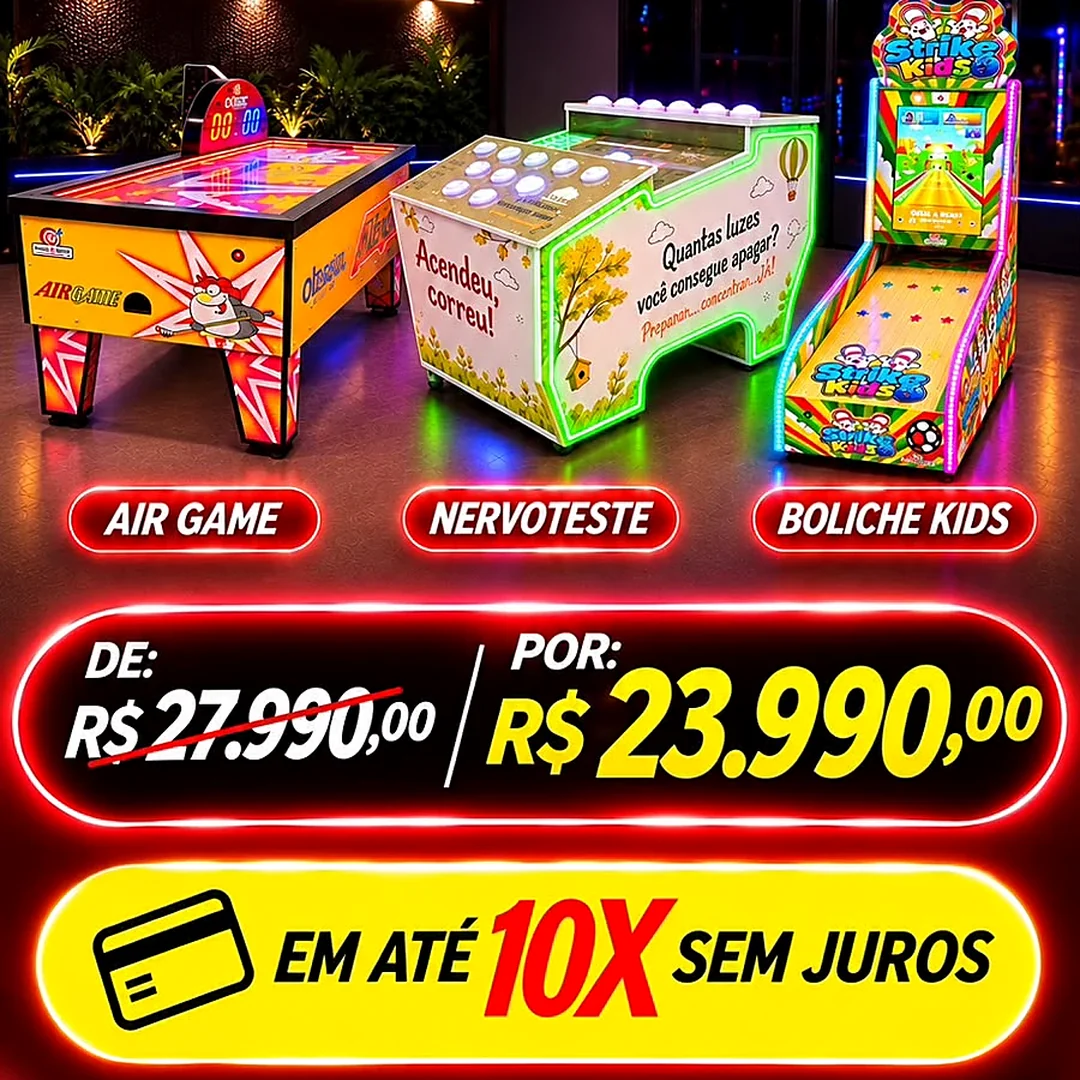
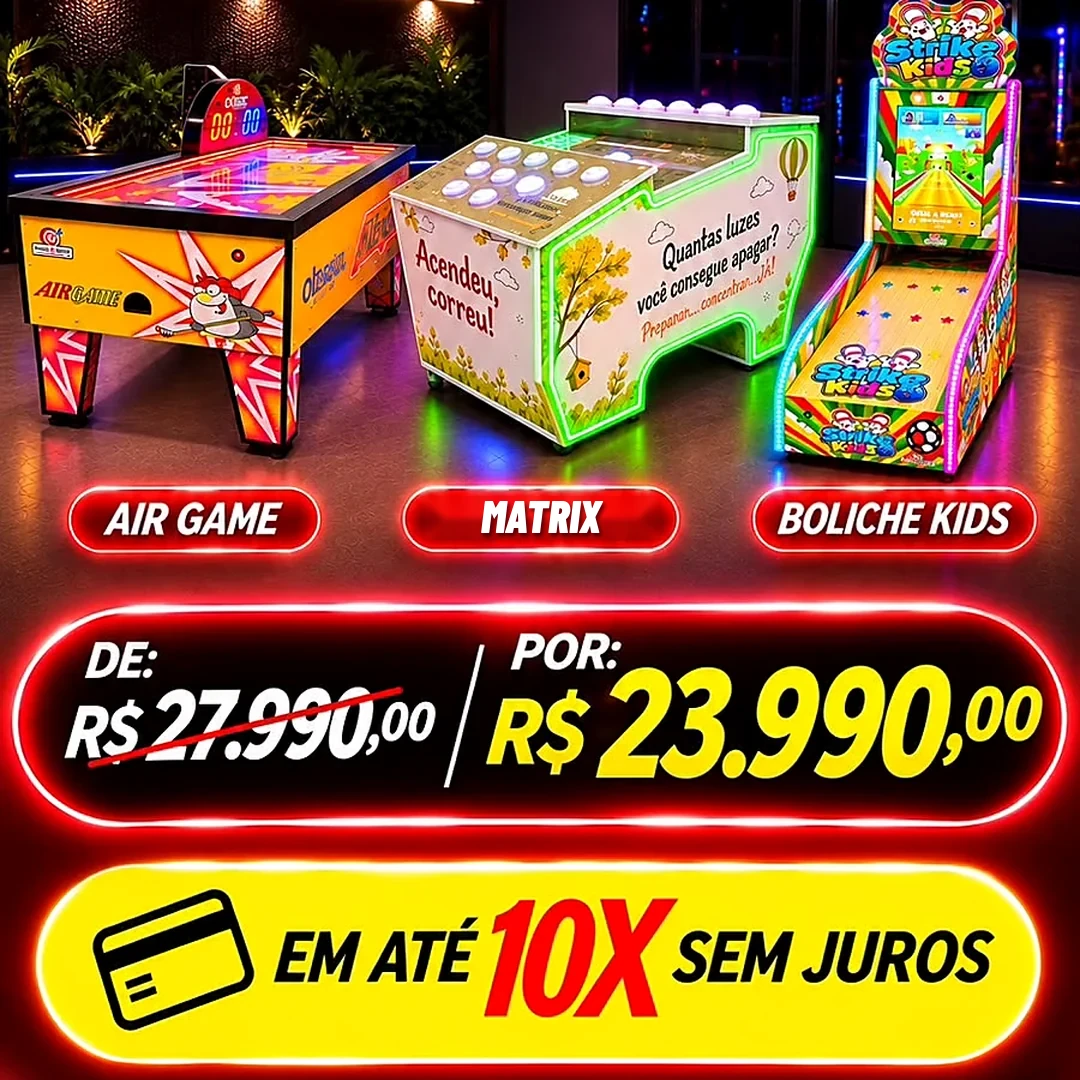
Kit Sucesso com o Matrix (não o Nervo Teste) e a fileira do destaque sem fim
A máquina das luzes da arte do Kit Sucesso é o Matrix: o rótulo da arte e do
card foi refeito, a promoção ganhou o nome certo e o Matrix ligado; a que já
existe é acertada (migração 0175, as fotos novas sobem só no Render).
As miniaturas do quadro do topo passam sem fim (cópias antes e depois, a
rolagem sempre no meio) e ganham as setas ‹ ›.

Claude-Session: https://claude.ai/code/session_01BdLQMKFKjxTHdFwtnUJngg

Changed region(s): [[0.3972, 0.4583, 0.6111, 0.5194]]

diff --git a/core/static/site/paginas/home-quadro.js b/core/static/site/paginas/home-quadro.js
@@ -76,29 +76,125 @@
     if (seguinte) seguinte.loading = "eager";
 
     minis.forEach(function (botao, i) {
-      botao.classList.toggle("ativo", i === atual);
       botao.setAttribute("aria-pressed", i === atual ? "true" : "false");
     });
-    mostrarMiniatura(minis[atual]);
+    todas().forEach(function (botao) {
+      botao.classList.toggle("ativo", Number(botao.dataset.ir) === atual);
+    });
+    mostrarMiniatura(atual);
     correr();
     vitrine.dispatchEvent(new CustomEvent("vitrine:troca", { detail: { indice: atual, slide: novo } }));
   }
 
-  // No celular a fileira de miniaturas rola de lado: a do brinquedo da vez
-  // fica à vista. Só a fileira rola (scrollTo nela), nunca a página -- o
-  // scrollIntoView puxaria a página de volta para o quadro no meio da
-  // leitura lá embaixo.
-  function mostrarMiniatura(botao) {
-    var fileira = botao && botao.parentElement;
+  /* A FILEIRA SEM FIM. O cliente: "ajeite melhor para poder ir passando e
+     não ter o fim". Quando as miniaturas não cabem, a fileira ganha uma cópia
+     delas antes e outra depois (só para o olho: `aria-hidden`, fora do Tab),
+     e a rolagem fica sempre na do meio -- passou do fim, volta em silêncio
+     para o mesmo ponto da do meio, que é idêntico. Assim dá para ir passando
+     com o dedo (ou com as setas ‹ ›) para sempre, nos dois sentidos, e a
+     troca automática do último para o primeiro segue PARA A FRENTE. Só a
+     fileira rola (scrollTo nela), nunca a página -- o scrollIntoView puxaria
+     a página de volta para o quadro no meio da leitura lá embaixo. */
+  var fileira = minis.length ? minis[0].parentElement : null;
+  var semFim = false;
+  var copias = [];
+
+  function todas() {
+    return fileira ? Array.prototype.slice.call(fileira.querySelectorAll("[data-ir]")) : minis;
+  }
+
+  // a largura de uma volta inteira (do 1º original ao 1º da cópia de depois)
+  function larguraDaVolta() {
+    var depois = copias[minis.length];
+    return depois ? depois.offsetLeft - minis[0].offsetLeft : 0;
+  }
+
+  function prepararSemFim() {
+    if (!fileira || minis.length < 2) return;
+    fileira.classList.add("ls-vitrine-miniaturas--rola");
+    if (fileira.scrollWidth <= fileira.clientWidth + 1) return;
+    semFim = true;
+    fileira.classList.add("ls-vitrine-miniaturas--sem-fim");
+    var copiar = function (botao) {
+      var copia = botao.cloneNode(true);
+      copia.setAttribute("aria-hidden", "true");
+      copia.removeAttribute("aria-pressed");
+      copia.removeAttribute("aria-label");
+      copia.tabIndex = -1;
+      copia.classList.add("ls-vitrine-mini--copia");
+      return copia;
+    };
+    var antes = minis.map(copiar);
+    var depois = minis.map(copiar);
+    antes.forEach(function (copia) { fileira.insertBefore(copia, minis[0]); });
+    depois.forEach(function (copia) { fileira.appendChild(copia); });
+    copias = antes.concat(depois);
+    // começa no meio: a 1ª miniatura original no centro
+    var botao = minis[atual];
+    fileira.scrollLeft = botao.offsetLeft - (fileira.clientWidth - botao.offsetWidth) / 2;
+    var espera = 0;
+    var recentrar = function () {
+      espera = 0;
+      var volta = larguraDaVolta();
+      if (!volta) return;
+      var meio = fileira.scrollLeft + fileira.clientWidth / 2;
+      var ini = minis[0].offsetLeft;
+      if (meio < ini) fileira.scrollLeft += volta;
+      else if (meio > ini + volta) fileira.scrollLeft -= volta;
+    };
+    fileira.addEventListener("scroll", function () {
+      window.clearTimeout(espera);
+      espera = window.setTimeout(recentrar, 140);
+    }, { passive: true });
+  }
+
+  // a miniatura da vez no meio da fileira: entre as cópias dela, a mais perto
+  // de onde a fileira está (do último para o primeiro, anda para a frente)
+  function mostrarMiniatura(indice) {
     if (!fileira || fileira.scrollWidth <= fileira.clientWidth + 1) return;
-    var esquerda = botao.offsetLeft - (fileira.clientWidth - botao.offsetWidth) / 2;
-    fileira.scrollTo({ left: Math.max(0, esquerda), behavior: reduzido ? "auto" : "smooth" });
+    var meio = fileira.scrollLeft + fileira.clientWidth / 2;
+    var melhor = null;
+    var distancia = Infinity;
+    todas().forEach(function (botao) {
+      if (Number(botao.dataset.ir) !== indice) return;
+      var d = Math.abs(botao.offsetLeft + botao.offsetWidth / 2 - meio);
+      if (d < distancia) { distancia = d; melhor = botao; }
+    });
+    if (!melhor) return;
+    var esquerda = melhor.offsetLeft - (fileira.clientWidth - melhor.offsetWidth) / 2;
+    fileira.scrollTo({ left: semFim ? esquerda : Math.max(0, esquerda), behavior: reduzido ? "auto" : "smooth" });
+  }
+
+  // as setas ‹ › dos dois lados da fileira (no PC não há dedo para arrastar)
+  function prepararSetas() {
+    if (!fileira || minis.length < 2) return;
+    var trilho = document.createElement("div");
+    trilho.className = "ls-vitrine-trilho";
+    fileira.parentElement.insertBefore(trilho, fileira);
+    var seta = function (lado, rotulo, passo) {
+      var botao = document.createElement("button");
+      botao.type = "button";
+      botao.className = "ls-vitrine-seta ls-vitrine-seta--" + lado;
+      botao.setAttribute("aria-label", rotulo);
+      botao.innerHTML = '<i class="fa-solid ' + (lado === "antes" ? "fa-chevron-left" : "fa-chevron-right") + '" aria-hidden="true"></i>';
+      botao.addEventListener("click", function () { mostrar(atual + passo); });
+      return botao;
+    };
+    trilho.appendChild(seta("antes", "Brinquedo anterior", -1));
+    trilho.appendChild(fileira);
+    trilho.appendChild(seta("depois", "Próximo brinquedo", 1));
   }
 
   if (slides.length > 1) {
-    minis.forEach(function (botao) {
-      botao.addEventListener("click", function () { mostrar(Number(botao.dataset.ir)); });
-    });
+    prepararSetas();
+    prepararSemFim();
+    // um ouvinte só, na fileira: vale para as miniaturas e para as cópias delas
+    if (fileira) {
+      fileira.addEventListener("click", function (e) {
+        var botao = e.target.closest("[data-ir]");
+        if (botao && fileira.contains(botao)) mostrar(Number(botao.dataset.ir));
+      });
+    }
 
     vitrine.addEventListener("mouseenter", function () { parar(true); });
     vitrine.addEventListener("mouseleave", function () { parar(false); });

diff --git a/core/static/site/paginas/home-quadro.css b/core/static/site/paginas/home-quadro.css
@@ -568,6 +568,69 @@
 .ls-vitrine-mini:first-child { margin-left: auto; }
 .ls-vitrine-mini:last-child { margin-right: auto; }
 
+/* A FILEIRA SEM FIM (home-quadro.js): as setas ‹ › dos lados e a fileira no
+   meio; ela rola de lado em qualquer tela (sem barra), com as pontas
+   esmaecendo, e, quando não cabe, as cópias antes e depois fazem a volta
+   não ter fim. */
+.ls-vitrine-trilho {
+    display: flex;
+    align-items: center;
+    gap: 6px;
+    width: min(100%, 620px);
+}
+
+.ls-vitrine-trilho .ls-vitrine-miniaturas {
+    flex: 1 1 auto;
+    min-width: 0;
+    width: auto;
+}
+
+.ls-vitrine-miniaturas--rola {
+    overflow-x: auto;
+    overscroll-behavior-x: contain;
+    scrollbar-width: none;
+    scroll-snap-type: x proximity;
+    padding-top: 7px;
+    padding-bottom: 5px;
+}
+
+.ls-vitrine-miniaturas--rola::-webkit-scrollbar { display: none; }
+.ls-vitrine-miniaturas--rola .ls-vitrine-mini { scroll-snap-align: center; }
+
+.ls-vitrine-miniaturas--sem-fim {
+    -webkit-mask-image: linear-gradient(90deg, transparent 0, #000 26px, #000 calc(100% - 26px), transparent 100%);
+    mask-image: linear-gradient(90deg, transparent 0, #000 26px, #000 calc(100% - 26px), transparent 100%);
+}
+
+.ls-vitrine-miniaturas--sem-fim .ls-vitrine-mini:first-child,
+.ls-vitrine-miniaturas--sem-fim .ls-vitrine-mini:last-child { margin: 0; }
+
+.ls-vitrine-seta {
+    flex: none;
+    display: grid;
+    place-items: center;
+    width: 34px;
+    height: 34px;
+    padding: 0;
+    border: 1px solid rgba(127, 220, 255, .22);
+    border-radius: 50%;
+    background: rgba(10, 26, 56, .78);
+    color: #cfe9ff;
+    font-size: .8rem;
+    cursor: pointer;
+    transition: background .2s ease, border-color .2s ease, transform .2s ease, color .2s ease;
+}
+
+.ls-vitrine-seta:hover {
+    border-color: #3fd0ff;
+    background: rgba(18, 55, 107, .95);
+    color: #fff;
+    transform: scale(1.06);
+}
+
+.ls-vitrine-seta:active { transform: scale(.94); }
+.ls-vitrine-seta:focus-visible { outline: 2px solid #3fd0ff; outline-offset: 2px; }
+
 .ls-vitrine-mini {
     position: relative;
     flex: none;
@@ -814,6 +877,8 @@
     }
     .ls-vitrine-miniaturas::-webkit-scrollbar { display: none; }
     .ls-vitrine-mini { width: 40px; height: 40px; border-radius: 11px; scroll-snap-align: center; }
+    .ls-vitrine-seta { width: 30px; height: 30px; font-size: .72rem; }
+    .ls-vitrine-trilho { gap: 4px; }
     .ls-vitrine-mini img { padding: 3px; }
     .ls-vitrine-chip3d { top: 12px; left: 12px; }
     .ls-painel-numeros { grid-template-columns: repeat(2, minmax(0, 1fr)); gap: 8px; }

diff --git a/core/black_friday.py b/core/black_friday.py
@@ -179,8 +179,12 @@ PROMOCOES = [
     },
     {
         "arte": 11,
-        "descricao": "Kit Sucesso e Inovação: Air Game + Nervo Teste + Boliche Kids",
-        "brinquedos": ["Air Game Home", "Nervo Teste", "Strike Kids"],
+        # A máquina das luzes da arte é o MATRIX, não o Nervo Teste (o cliente: "arrume a
+        # nomenclatura, não é o nervo teste, é o matrix"); a arte e o card foram corrigidos
+        # e a promoção que já existe com o nome antigo é acertada (`antes`, migração 0175).
+        "descricao": "Kit Sucesso e Inovação: Air Game + Matrix + Boliche Kids",
+        "antes": ["Kit Sucesso e Inovação: Air Game + Nervo Teste + Boliche Kids"],
+        "brinquedos": ["Air Game Home", "Matrix", "Strike Kids"],
         "preco": "23990.00",
         "preco_de": "27990.00",
         "condicoes": [DEZ_X],
@@ -326,8 +330,12 @@ def cadastrar_promocao(dados, Brinquedos, Promocoes, simular=False, avisar=print
     if simular:
         avisar(f"{dados['descricao']}: seria criada/acertada ({', '.join(b.nome_brinquedo for b in brinquedos)}).")
         return None
-    promocao = Promocoes.objects.filter(descricao=dados["descricao"]).first() or Promocoes(descricao=dados["descricao"])
+    nomes = [dados["descricao"], *dados.get("antes", [])]
+    promocao = (Promocoes.objects.filter(descricao=dados["descricao"]).first()
+                or Promocoes.objects.filter(descricao__in=nomes).first()
+                or Promocoes(descricao=dados["descricao"]))
     nova = promocao.pk is None
+    promocao.descricao = dados["descricao"]  # o nome antigo (ex.: o Nervo Teste no Kit Sucesso) é acertado
     promocao.brinquedos = brinquedos[0]
     promocao.preco_promocao = Decimal(dados["preco"]) if dados.get("preco") else None
     promocao.preco_de = Decimal(dados["preco_de"]) if dados.get("preco_de") else None
@@ -364,6 +372,46 @@ def rodar(Brinquedos, CategoriasBrinquedos, ImagemBrinquedo, Promocoes, simular=
     # de trás para a frente: a primeira da lista fica com o id maior (o site mostra as mais novas antes)
     for dados in reversed(PROMOCOES):
         cadastrar_promocao(dados, Brinquedos, Promocoes, simular=simular, avisar=avisar)
+
+
+def kit_sucesso_com_matrix(apps, schema_editor, avisar=print):
+    """A migração 0175: o Kit Sucesso é Air Game + MATRIX + Boliche Kids (não o Nervo Teste).
+
+    Em todo lugar: a promoção que já existe com o nome antigo ganha o nome certo e o Matrix
+    no lugar do Nervo Teste. Só no Render (o Cloudinary só está lá): a arte e o card
+    corrigidos sobem. Sem a promoção (nunca criada) ou sem o Matrix no catálogo, nada muda.
+    """
+    from django.conf import settings
+
+    Brinquedos = apps.get_model("core", "Brinquedos")
+    Promocoes = apps.get_model("core", "Promocoes")
+    dados = next(d for d in PROMOCOES if d["arte"] == 11)
+    nomes = [dados["descricao"], *dados["antes"]]
+    promocao = Promocoes.objects.filter(descricao__in=nomes).first()
+    if promocao is None:
+        return
+    if getattr(settings, "IS_RENDER", False):
+        try:
+            cadastrar_promocao(dados, Brinquedos, Promocoes, avisar=avisar)
+        except Exception as erro:  # noqa: BLE001 -- o deploy segue
+            avisar(f"O Kit Sucesso não foi acertado agora ({erro!r}). Rode: python manage.py black_friday_2026 --forcar")
+            return
+        try:
+            from django.core.cache import cache
+
+            cache.clear()
+        except Exception:  # noqa: BLE001
+            pass
+        return
+    brinquedos = [achar(nome, Brinquedos) for nome in dados["brinquedos"]]
+    if any(b is None for b in brinquedos):
+        avisar(f"{dados['descricao']}: falta no catálogo o Matrix; a promoção fica como está.")
+        return
+    with transaction.atomic():
+        promocao.descricao = dados["descricao"]
+        promocao.brinquedos = brinquedos[0]
+        promocao.save()
+        promocao.brinquedos_extras.set(brinquedos[1:])
 
 
 def subir_no_deploy(apps, schema_editor, avisar=print):

diff --git a/core/tests_black_friday.py b/core/tests_black_friday.py
@@ -205,7 +205,7 @@ def _discos(pasta):
 
 class CadastroTests(TestCase):
     def setUp(self):
-        for nome in ("Air Game Kids", "Strike Kids", "Nervo Teste", "Boliche Virtual", "Air Game Home"):
+        for nome in ("Air Game Kids", "Strike Kids", "Nervo Teste", "Boliche Virtual", "Air Game Home", "Matrix"):
             _brinquedo(nome)
         CategoriasBrinquedos.objects.create(nome_categoria="Competitivos", imagem_categoria="categorias/c.jpg")
         self.pasta = tempfile.TemporaryDirectory()
@@ -266,7 +266,54 @@ class CadastroTests(TestCase):
         avisos = self.rodar()
         self.assertFalse(Promocoes.objects.filter(descricao="Black Friday: Nervo Teste").exists())
         self.assertTrue(any("Nervo Teste" in a and "falta" in a for a in avisos))
-        self.assertEqual(Promocoes.objects.count(), 9)  # a do Nervo Teste e o Kit Sucesso esperam
+        self.assertEqual(Promocoes.objects.count(), 10)  # só a do Nervo Teste espera (o kit é com o Matrix)
+
+    def test_kit_sucesso_e_com_o_matrix(self):
+        """"não é o nervo teste, é o matrix": a promoção antiga é acertada, sem duplicar."""
+        antiga = Promocoes.objects.create(
+            descricao="Kit Sucesso e Inovação: Air Game + Nervo Teste + Boliche Kids",
+            brinquedos=Brinquedos.objects.get(nome_brinquedo="Air Game Home"), preco_promocao=Decimal("23990.00"),
+        )
+        antiga.brinquedos_extras.set([Brinquedos.objects.get(nome_brinquedo="Nervo Teste"),
+                                      Brinquedos.objects.get(nome_brinquedo="Strike Kids")])
+        self.rodar()
+        kit = Promocoes.objects.get(descricao__startswith="Kit Sucesso")
+        self.assertEqual(kit.pk, antiga.pk)
+        self.assertEqual(kit.descricao, "Kit Sucesso e Inovação: Air Game + Matrix + Boliche Kids")
+        self.assertEqual(sorted(b.nome_brinquedo for b in kit.todos_brinquedos), ["Air Game Home", "Matrix", "Strike Kids"])
+        self.assertEqual(Promocoes.objects.count(), 11)
+
+    @override_settings(IS_RENDER=False)
+    def test_migracao_acerta_o_kit_sem_subir_fotos(self):
+        from django.apps import apps
+
+        antiga = Promocoes.objects.create(
+            descricao="Kit Sucesso e Inovação: Air Game + Nervo Teste + Boliche Kids",
+            brinquedos=Brinquedos.objects.get(nome_brinquedo="Air Game Home"),
+        )
+        antiga.brinquedos_extras.set([Brinquedos.objects.get(nome_brinquedo="Nervo Teste")])
+        for _ in range(2):  # rodar de novo não muda nada
+            black_friday.kit_sucesso_com_matrix(apps, None, avisar=lambda _m: None)
+        antiga.refresh_from_db()
+        self.assertEqual(antiga.descricao, "Kit Sucesso e Inovação: Air Game + Matrix + Boliche Kids")
+        self.assertEqual(antiga.brinquedos.nome_brinquedo, "Air Game Home")
+        self.assertEqual(sorted(b.nome_brinquedo for b in antiga.todos_brinquedos), ["Air Game Home", "Matrix", "Strike Kids"])
+        self.assertFalse(antiga.arte_promocao)
+        self.assertEqual(Promocoes.objects.count(), 1)
+
+    @override_settings(IS_RENDER=False)
+    def test_migracao_sem_a_promocao_nao_cria_nada(self):
+        from django.apps import apps
+
+        black_friday.kit_sucesso_com_matrix(apps, None, avisar=lambda _m: None)
+        self.assertFalse(Promocoes.objects.exists())
+
+    def test_a_arte_do_kit_diz_matrix(self):
+        # o rótulo do meio foi refeito: a faixa clara do texto ficou mais curta que a do NERVOTESTE
+        with Image.open(black_friday.PASTA / "card-11.webp") as card:
+            faixa = card.convert("L").crop((420, 498, 662, 538))
+            claros = [x for x in range(faixa.width) if any(faixa.getpixel((x, y)) > 215 for y in range(faixa.height))]
+            self.assertLess(max(claros) - min(claros), 170)
 
     @override_settings(IS_RENDER=False)
     def test_migracao_nao_faz_nada_fora_do_render(self):

diff --git a/core/migrations/0175_kit_sucesso_com_matrix.py b/core/migrations/0175_kit_sucesso_com_matrix.py
@@ -1,0 +1,31 @@
+"""O Kit Sucesso e Inovação da Black Friday é Air Game + MATRIX + Boliche Kids.
+
+O cliente, com a arte do kit: "arrume a nomenclatura, não é o nervo teste, é o
+matrix" -- a máquina das luzes ("Quantas luzes você consegue apagar?") é o
+Matrix. A promoção criada pela 0163 com o nome antigo e o Nervo Teste ligado
+ganha o nome certo e o Matrix no lugar (em todo lugar); no Render, a arte e o
+card corrigidos ("MATRIX" no rótulo) sobem (core/black_friday.py,
+kit_sucesso_com_matrix; LEIA-ME, seção 74).
+
+Rodar de novo não muda nada. Sem a promoção, ou sem o Matrix no catálogo, nada
+muda. Se a subida falhar, o deploy segue e o aviso diz o comando.
+"""
+
+from django.db import migrations
+
+
+def acertar(apps, schema_editor):
+    from core import black_friday
+
+    black_friday.kit_sucesso_com_matrix(apps, schema_editor)
+
+
+class Migration(migrations.Migration):
+
+    dependencies = [
+        ("core", "0171_analises_e_presenca"),
+    ]
+
+    operations = [
+        migrations.RunPython(acertar, migrations.RunPython.noop),
+    ]
